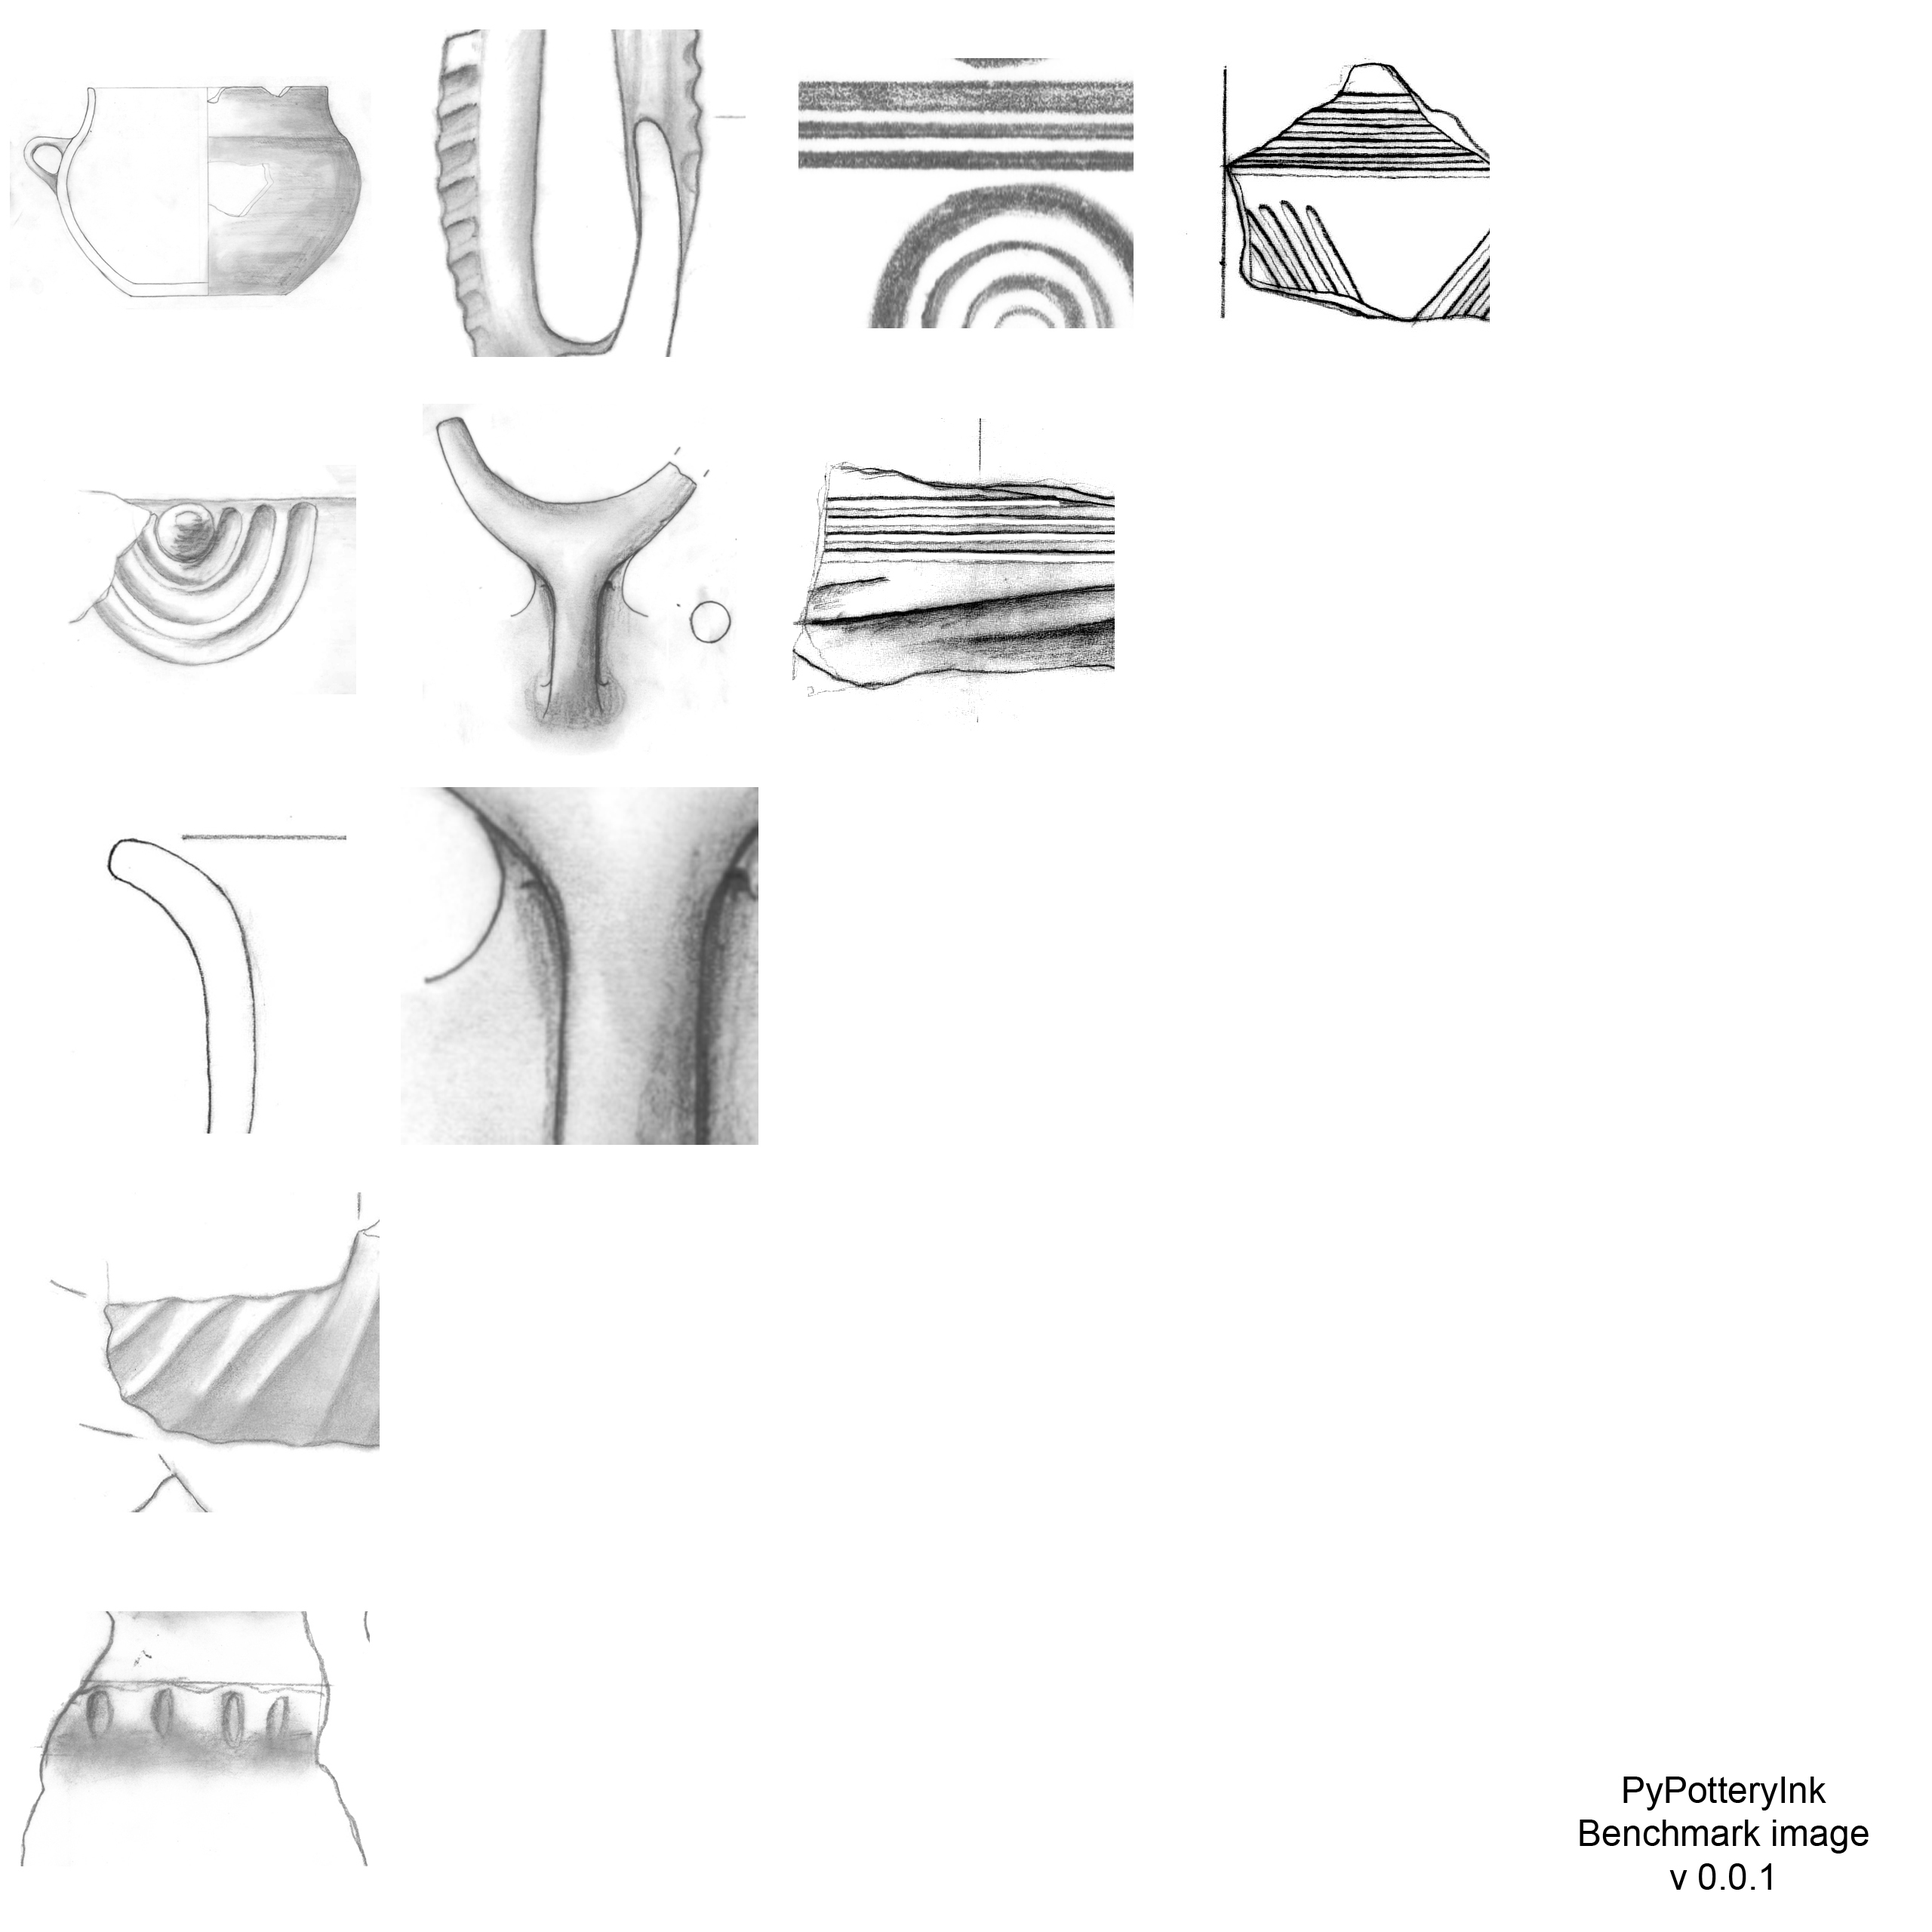
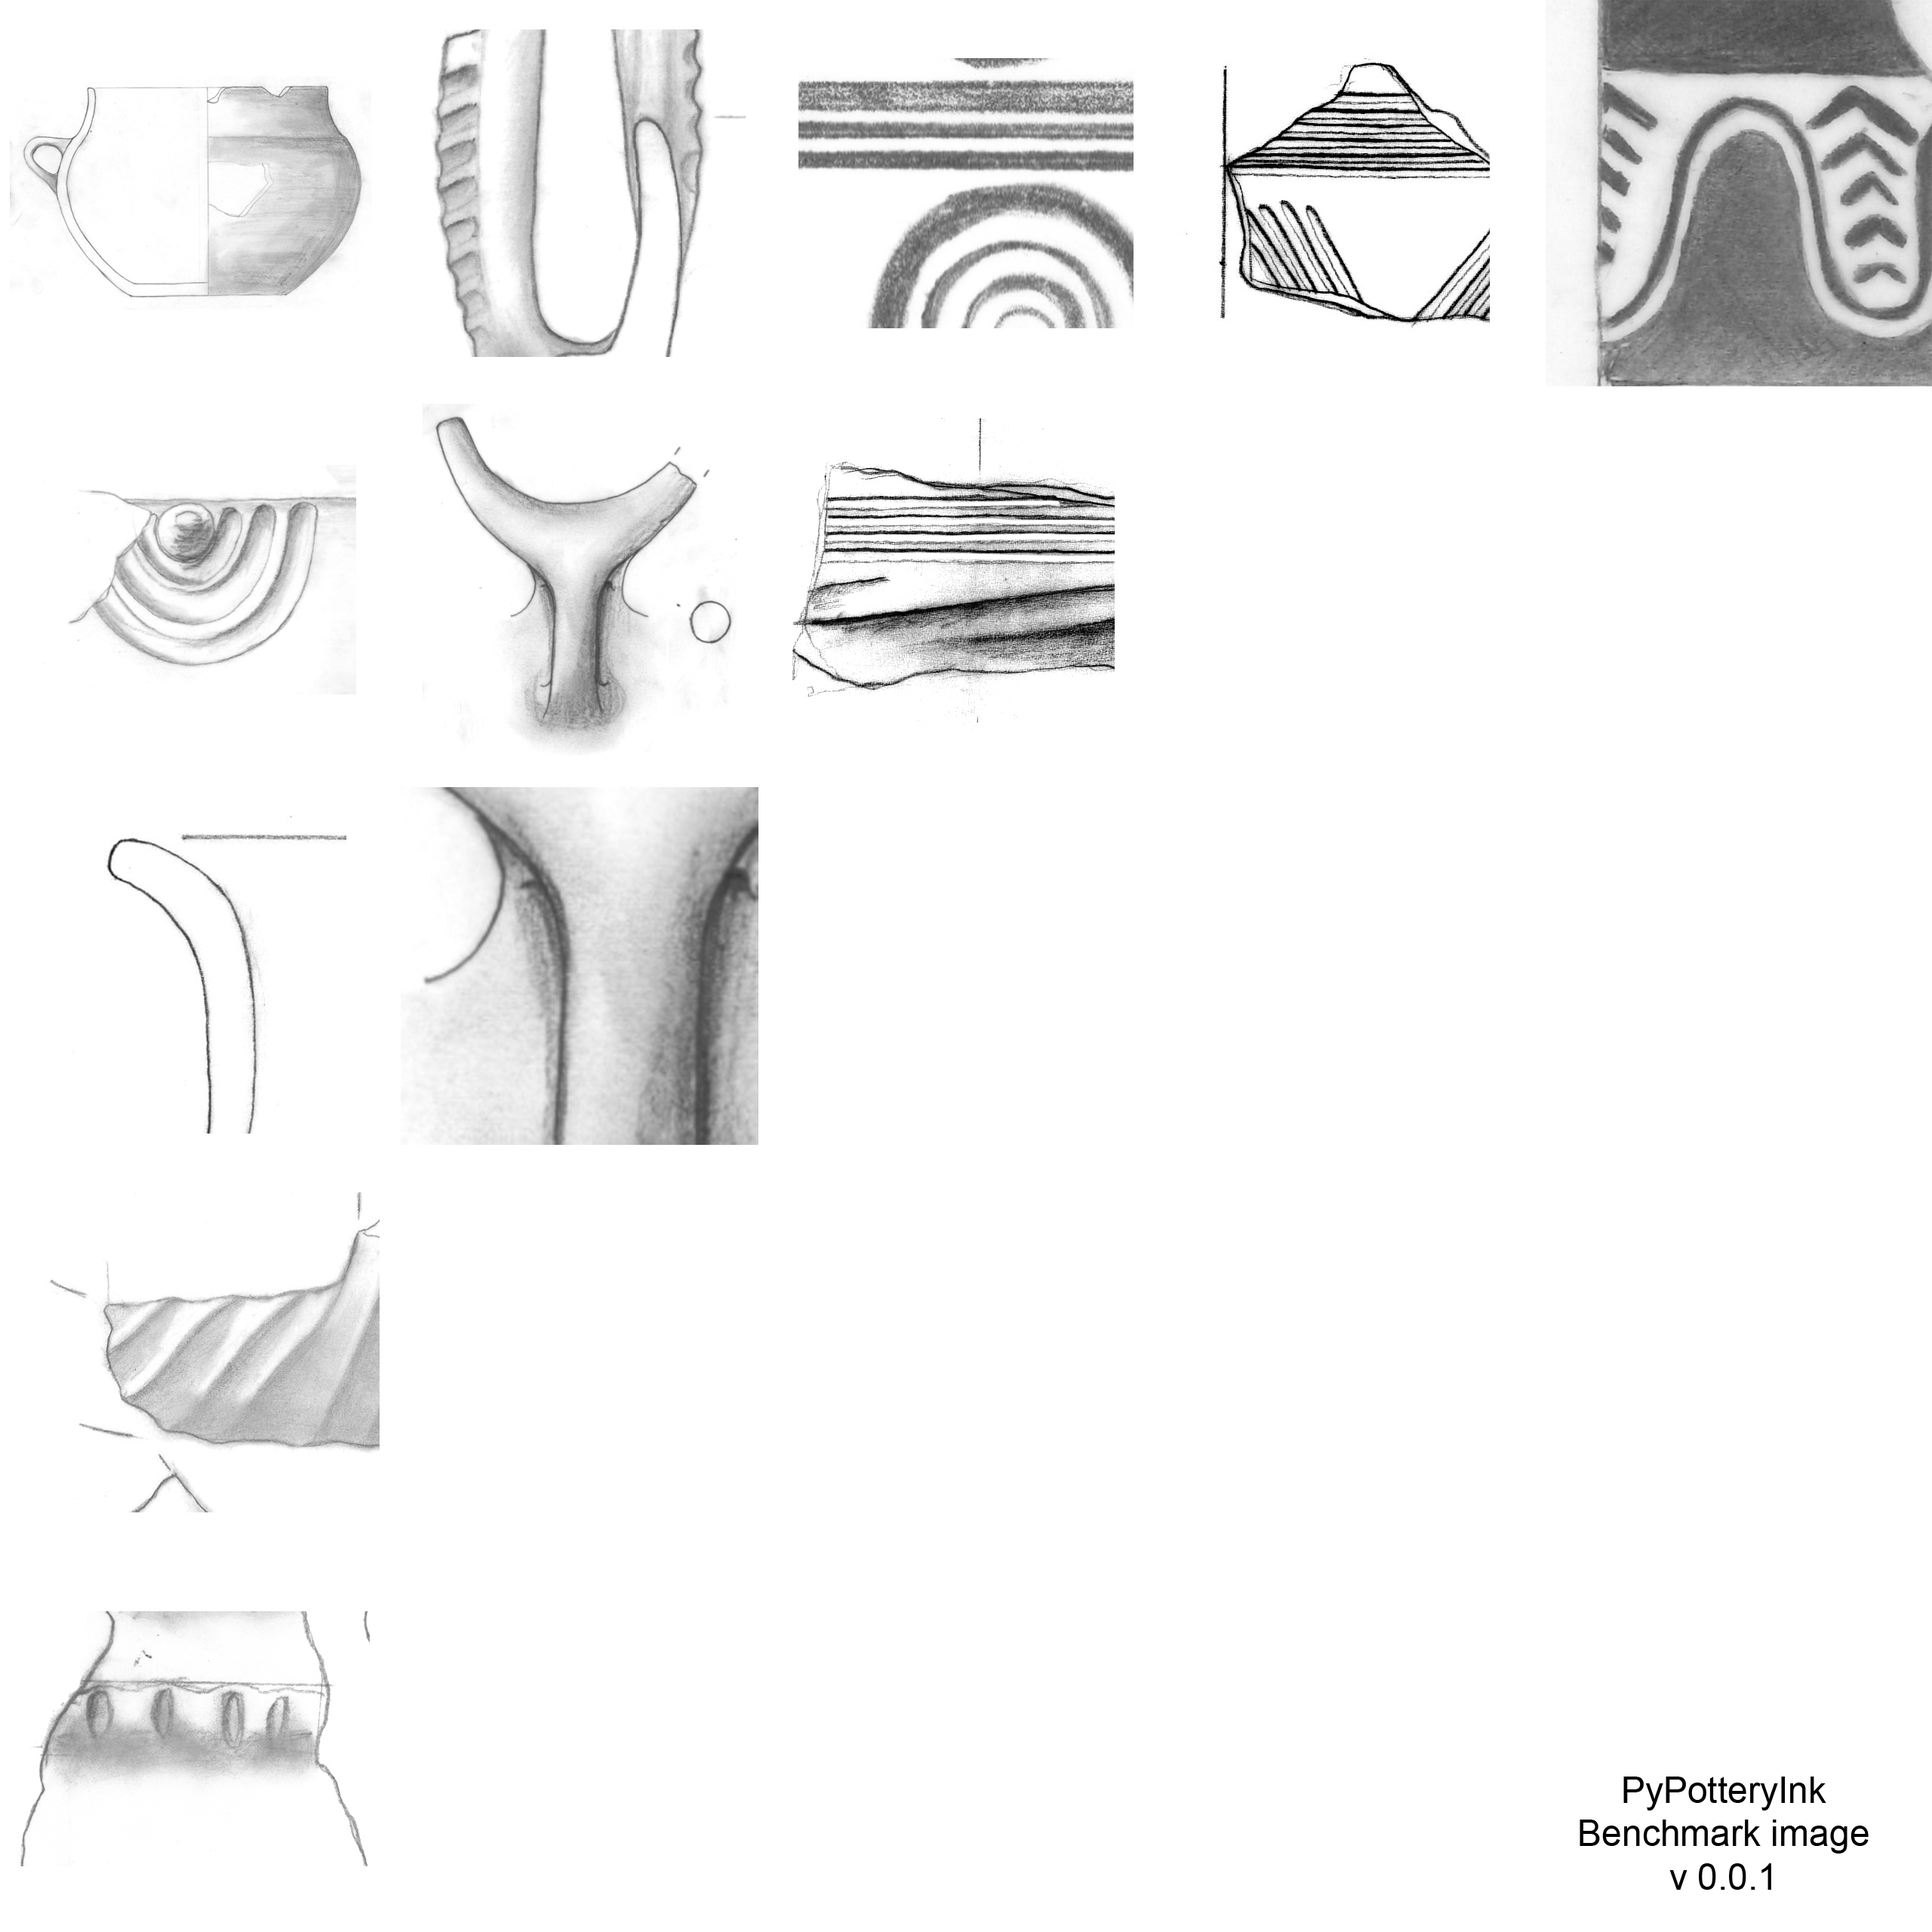
paint

Changed region(s): [[0.8125, 0.0, 1.0, 0.2188]]

diff --git a/docs/models_zoo.html b/docs/models_zoo.html
@@ -236,6 +236,7 @@ ul.task-list li input[type="checkbox"] {
   <li><a href="#k" id="toc-k" class="nav-link" data-scroll-target="#k"><strong>10k</strong></a></li>
   <li><a href="#h-mcg" id="toc-h-mcg" class="nav-link" data-scroll-target="#h-mcg"><strong>6h-MCG</strong></a></li>
   <li><a href="#h-mc" id="toc-h-mc" class="nav-link" data-scroll-target="#h-mc"><strong>6h-MC</strong></a></li>
+  <li><a href="#h-paint" id="toc-h-paint" class="nav-link" data-scroll-target="#h-paint"><strong>4h-PAINT</strong></a></li>
   </ul></li>
   </ul>
 </nav>
@@ -651,7 +652,7 @@ ul.task-list li input[type="checkbox"] {
 <thead>
 <tr class="header">
 <th>Parameter</th>
-<th>6h-MCG</th>
+<th>6h-MC</th>
 </tr>
 </thead>
 <tbody>
@@ -812,6 +813,186 @@ ul.task-list li input[type="checkbox"] {
 <div class="quarto-figure quarto-figure-center">
 <figure class="figure">
 <p><img src="images_docs/test_img_MC.jpg" class="img-fluid quarto-figure quarto-figure-center figure-img" width="800"></p>
+</figure>
+</div>
+</section>
+</section>
+<section id="h-paint" class="level3">
+<h3 class="anchored" data-anchor-id="h-paint"><strong>4h-PAINT</strong></h3>
+<p><strong>Description</strong>: Fine-tuned model specialized for painted decoration and historical pottery.</p>
+<ul>
+<li><strong>Training Data</strong>: 15 paired drawings from Late Bronze Age / Early Iron Age of Southern Italy</li>
+<li><strong>Base Model</strong>: 6h-MC</li>
+<li><strong>Resolution</strong>: 512×512 pixels</li>
+<li><strong>Training Steps</strong>: 400</li>
+<li><strong>Best For</strong>: Historic Age / Painted Pottery (No shadows!)</li>
+</ul>
+<p><strong>Parameters used for training</strong>:</p>
+<table class="caption-top table">
+<thead>
+<tr class="header">
+<th>Parameter</th>
+<th>4h-PAINT</th>
+</tr>
+</thead>
+<tbody>
+<tr class="odd">
+<td>adam_beta1</td>
+<td>0.9</td>
+</tr>
+<tr class="even">
+<td>adam_beta2</td>
+<td>0.999</td>
+</tr>
+<tr class="odd">
+<td>adam_epsilon</td>
+<td>0.00000001</td>
+</tr>
+<tr class="even">
+<td>adam_weight_decay</td>
+<td>0.01</td>
+</tr>
+<tr class="odd">
+<td>allow_tf32</td>
+<td>false</td>
+</tr>
+<tr class="even">
+<td>checkpointing_steps</td>
+<td>100</td>
+</tr>
+<tr class="odd">
+<td>dataloader_num_workers</td>
+<td>4</td>
+</tr>
+<tr class="even">
+<td>enable_xformers_memory_efficient_attention</td>
+<td>true</td>
+</tr>
+<tr class="odd">
+<td>eval_freq</td>
+<td>100</td>
+</tr>
+<tr class="even">
+<td>gan_disc_type</td>
+<td>“vagan_clip”</td>
+</tr>
+<tr class="odd">
+<td>gan_loss_type</td>
+<td>“multilevel_sigmoid_s”</td>
+</tr>
+<tr class="even">
+<td>gradient_accumulation_steps</td>
+<td>4</td>
+</tr>
+<tr class="odd">
+<td>gradient_checkpointing</td>
+<td>false</td>
+</tr>
+<tr class="even">
+<td>lambda_clipsim</td>
+<td>3</td>
+</tr>
+<tr class="odd">
+<td>lambda_gan</td>
+<td>0.9</td>
+</tr>
+<tr class="even">
+<td>lambda_l2</td>
+<td>1</td>
+</tr>
+<tr class="odd">
+<td>lambda_lpips</td>
+<td>10</td>
+</tr>
+<tr class="even">
+<td>learning_rate</td>
+<td>0.00001</td>
+</tr>
+<tr class="odd">
+<td>lora_rank_unet</td>
+<td>256</td>
+</tr>
+<tr class="even">
+<td>lora_rank_vae</td>
+<td>48</td>
+</tr>
+<tr class="odd">
+<td>lr_num_cycles</td>
+<td>1</td>
+</tr>
+<tr class="even">
+<td>lr_power</td>
+<td>1</td>
+</tr>
+<tr class="odd">
+<td>lr_scheduler</td>
+<td>“cosine”</td>
+</tr>
+<tr class="even">
+<td>lr_warmup_steps</td>
+<td>200</td>
+</tr>
+<tr class="odd">
+<td>max_grad_norm</td>
+<td>1</td>
+</tr>
+<tr class="even">
+<td>max_train_steps</td>
+<td>400</td>
+</tr>
+<tr class="odd">
+<td>mixed_precision</td>
+<td>“no”</td>
+</tr>
+<tr class="even">
+<td>num_samples_eval</td>
+<td>100</td>
+</tr>
+<tr class="odd">
+<td>num_training_epochs</td>
+<td>1</td>
+</tr>
+<tr class="even">
+<td>pretrained_model_name_or_path</td>
+<td>./6h-MC.pkl</td>
+</tr>
+<tr class="odd">
+<td>resolution</td>
+<td>512</td>
+</tr>
+<tr class="even">
+<td>set_grads_to_none</td>
+<td>false</td>
+</tr>
+<tr class="odd">
+<td>test_image_prep</td>
+<td>“resized_crop_512”</td>
+</tr>
+<tr class="even">
+<td>track_val_fid</td>
+<td>true</td>
+</tr>
+<tr class="odd">
+<td>train_batch_size</td>
+<td>1</td>
+</tr>
+<tr class="even">
+<td>train_image_prep</td>
+<td>“resized_crop_512”</td>
+</tr>
+<tr class="odd">
+<td>viz_freq</td>
+<td>50</td>
+</tr>
+</tbody>
+</table>
+<p><strong>Author</strong>: Lorenzo Cardarelli, Elisa Pizzuti</p>
+<p><img src="https://img.shields.io/badge/🤗%20Models-PyPotteryInk-yellow.svg" class="img-fluid"></p>
+<section id="benchmark-3" class="level4">
+<h4 class="anchored" data-anchor-id="benchmark-3">Benchmark</h4>
+<div class="quarto-figure quarto-figure-center">
+<figure class="figure">
+<p><img src="images_docs/test_img_PAINT.jpg" class="img-fluid quarto-figure quarto-figure-center figure-img" width="800"></p>
 </figure>
 </div>
 

diff --git a/docs/docs_preprocessing.html b/docs/docs_preprocessing.html
@@ -301,7 +301,7 @@ pre > code.sourceCode > span > a:first-child::before { text-decoration: underlin
 </section>
 <section id="import-required-libraries" class="level1">
 <h1>Import Required Libraries</h1>
-<div id="5eda21a5" class="cell">
+<div id="716657bb" class="cell">
 <div class="sourceCode cell-code" id="cb1"><pre class="sourceCode python code-with-copy"><code class="sourceCode python"><span id="cb1-1"><a href="#cb1-1" aria-hidden="true" tabindex="-1"></a><span class="im">from</span> ink <span class="im">import</span> process_folder, process_single_image</span>
 <span id="cb1-2"><a href="#cb1-2" aria-hidden="true" tabindex="-1"></a><span class="im">from</span> preprocessing <span class="im">import</span> DatasetAnalyzer, process_image_metrics, </span>
 <span id="cb1-3"><a href="#cb1-3" aria-hidden="true" tabindex="-1"></a>                visualize_metrics_change, process_folder_metrics</span></code><button title="Copy to Clipboard" class="code-copy-button"><i class="bi"></i></button></pre></div>
@@ -352,7 +352,7 @@ Figure&nbsp;2: Direct model application showing artefacts. Note the missing dott
 <li>Non-empty ratio: Proportion of pixels above background threshold</li>
 </ol>
 <p>You can either analyse your own dataset to establish reference metrics or use our pre-computed metrics from the training dataset:</p>
-<div id="d01823d8" class="cell">
+<div id="b85cb2d5" class="cell">
 <div class="sourceCode cell-code" id="cb2"><pre class="sourceCode python code-with-copy"><code class="sourceCode python"><span id="cb2-1"><a href="#cb2-1" aria-hidden="true" tabindex="-1"></a><span class="co"># Option 1: Analyse your own dataset</span></span>
 <span id="cb2-2"><a href="#cb2-2" aria-hidden="true" tabindex="-1"></a>analyzer <span class="op">=</span> DatasetAnalyzer()</span>
 <span id="cb2-3"><a href="#cb2-3" aria-hidden="true" tabindex="-1"></a>model_stats <span class="op">=</span> analyzer.analyze_dataset(<span class="st">'PATH_TO_YOUR_DATASET'</span>)</span>
@@ -364,7 +364,7 @@ Figure&nbsp;2: Direct model application showing artefacts. Note the missing dott
 <span id="cb2-9"><a href="#cb2-9" aria-hidden="true" tabindex="-1"></a>model_stats <span class="op">=</span> analyzer.distributions</span></code><button title="Copy to Clipboard" class="code-copy-button"><i class="bi"></i></button></pre></div>
 </div>
 <p>The distribution of these metrics can be visualized:</p>
-<div id="e97cfc5c" class="cell">
+<div id="e1a4219d" class="cell">
 <div class="sourceCode cell-code" id="cb3"><pre class="sourceCode python code-with-copy"><code class="sourceCode python"><span id="cb3-1"><a href="#cb3-1" aria-hidden="true" tabindex="-1"></a>analyzer.visualize_distributions_kde()</span></code><button title="Copy to Clipboard" class="code-copy-button"><i class="bi"></i></button></pre></div>
 </div>
 <div id="fig-model_stats" class="quarto-float quarto-figure quarto-figure-center anchored" data-fig-align="center">
@@ -381,7 +381,7 @@ Figure&nbsp;3: Distribution of image metrics from the training dataset. Each plo
 <section id="preprocessing-pipeline" class="level1">
 <h1>Preprocessing Pipeline</h1>
 <p>The preprocessing pipeline adjusts images to match the statistical properties of the training dataset. Here’s how to process a single image:</p>
-<div id="1ba0934b" class="cell">
+<div id="5db01eb1" class="cell">
 <div class="sourceCode cell-code" id="cb4"><pre class="sourceCode python code-with-copy"><code class="sourceCode python"><span id="cb4-1"><a href="#cb4-1" aria-hidden="true" tabindex="-1"></a>original_image <span class="op">=</span> <span class="st">'PATH_TO_YOUR_IMAGE'</span></span>
 <span id="cb4-2"><a href="#cb4-2" aria-hidden="true" tabindex="-1"></a>adjusted_image, adjusted_metrics <span class="op">=</span> process_image_metrics(original_image, model_stats)</span></code><button title="Copy to Clipboard" class="code-copy-button"><i class="bi"></i></button></pre></div>
 </div>

diff --git a/docs/version_history.html b/docs/version_history.html
@@ -279,6 +279,7 @@ ul.task-list li input[type="checkbox"] {
 <p><strong>Models:</strong></p>
 <ul>
 <li>Fine-tuned example for Monte Cimino assemblage (<em>6h-MC</em>)</li>
+<li>Fine-tuned model for historical and painted pottery (4h-PAINT)</li>
 </ul>
 </section>
 </section>

diff --git a/README.md b/README.md
@@ -50,6 +50,7 @@ As part of the **PyPottery** toolkit, `PyPotteryInk` is a deep learning applicat
 | **10k Model** | General-purpose model for pottery drawings | 38.3MB | [Download](https://huggingface.co/lrncrd/PyPotteryInk/resolve/main/model_10k.pkl?download=true) |
 | **6h-MCG Model** | High-quality model for Bronze Age drawings | 38.3MB | [Download](https://huggingface.co/lrncrd/PyPotteryInk/resolve/main/6h-MCG.pkl?download=true) |
 | **6h-MC Model** | High-quality model for Protohistoric and Historic drawings | 38.3MB | [Download](https://huggingface.co/lrncrd/PyPotteryInk/resolve/main/6h-MC.pkl?download=true) |
+| **4h-PAINT Model** | Tailored model for Historic and painted pottery | 38.3MB | [Download](https://huggingface.co/lrncrd/PyPotteryInk/resolve/main/4h-PAINT.pkl?download=true) |
 
 
 
